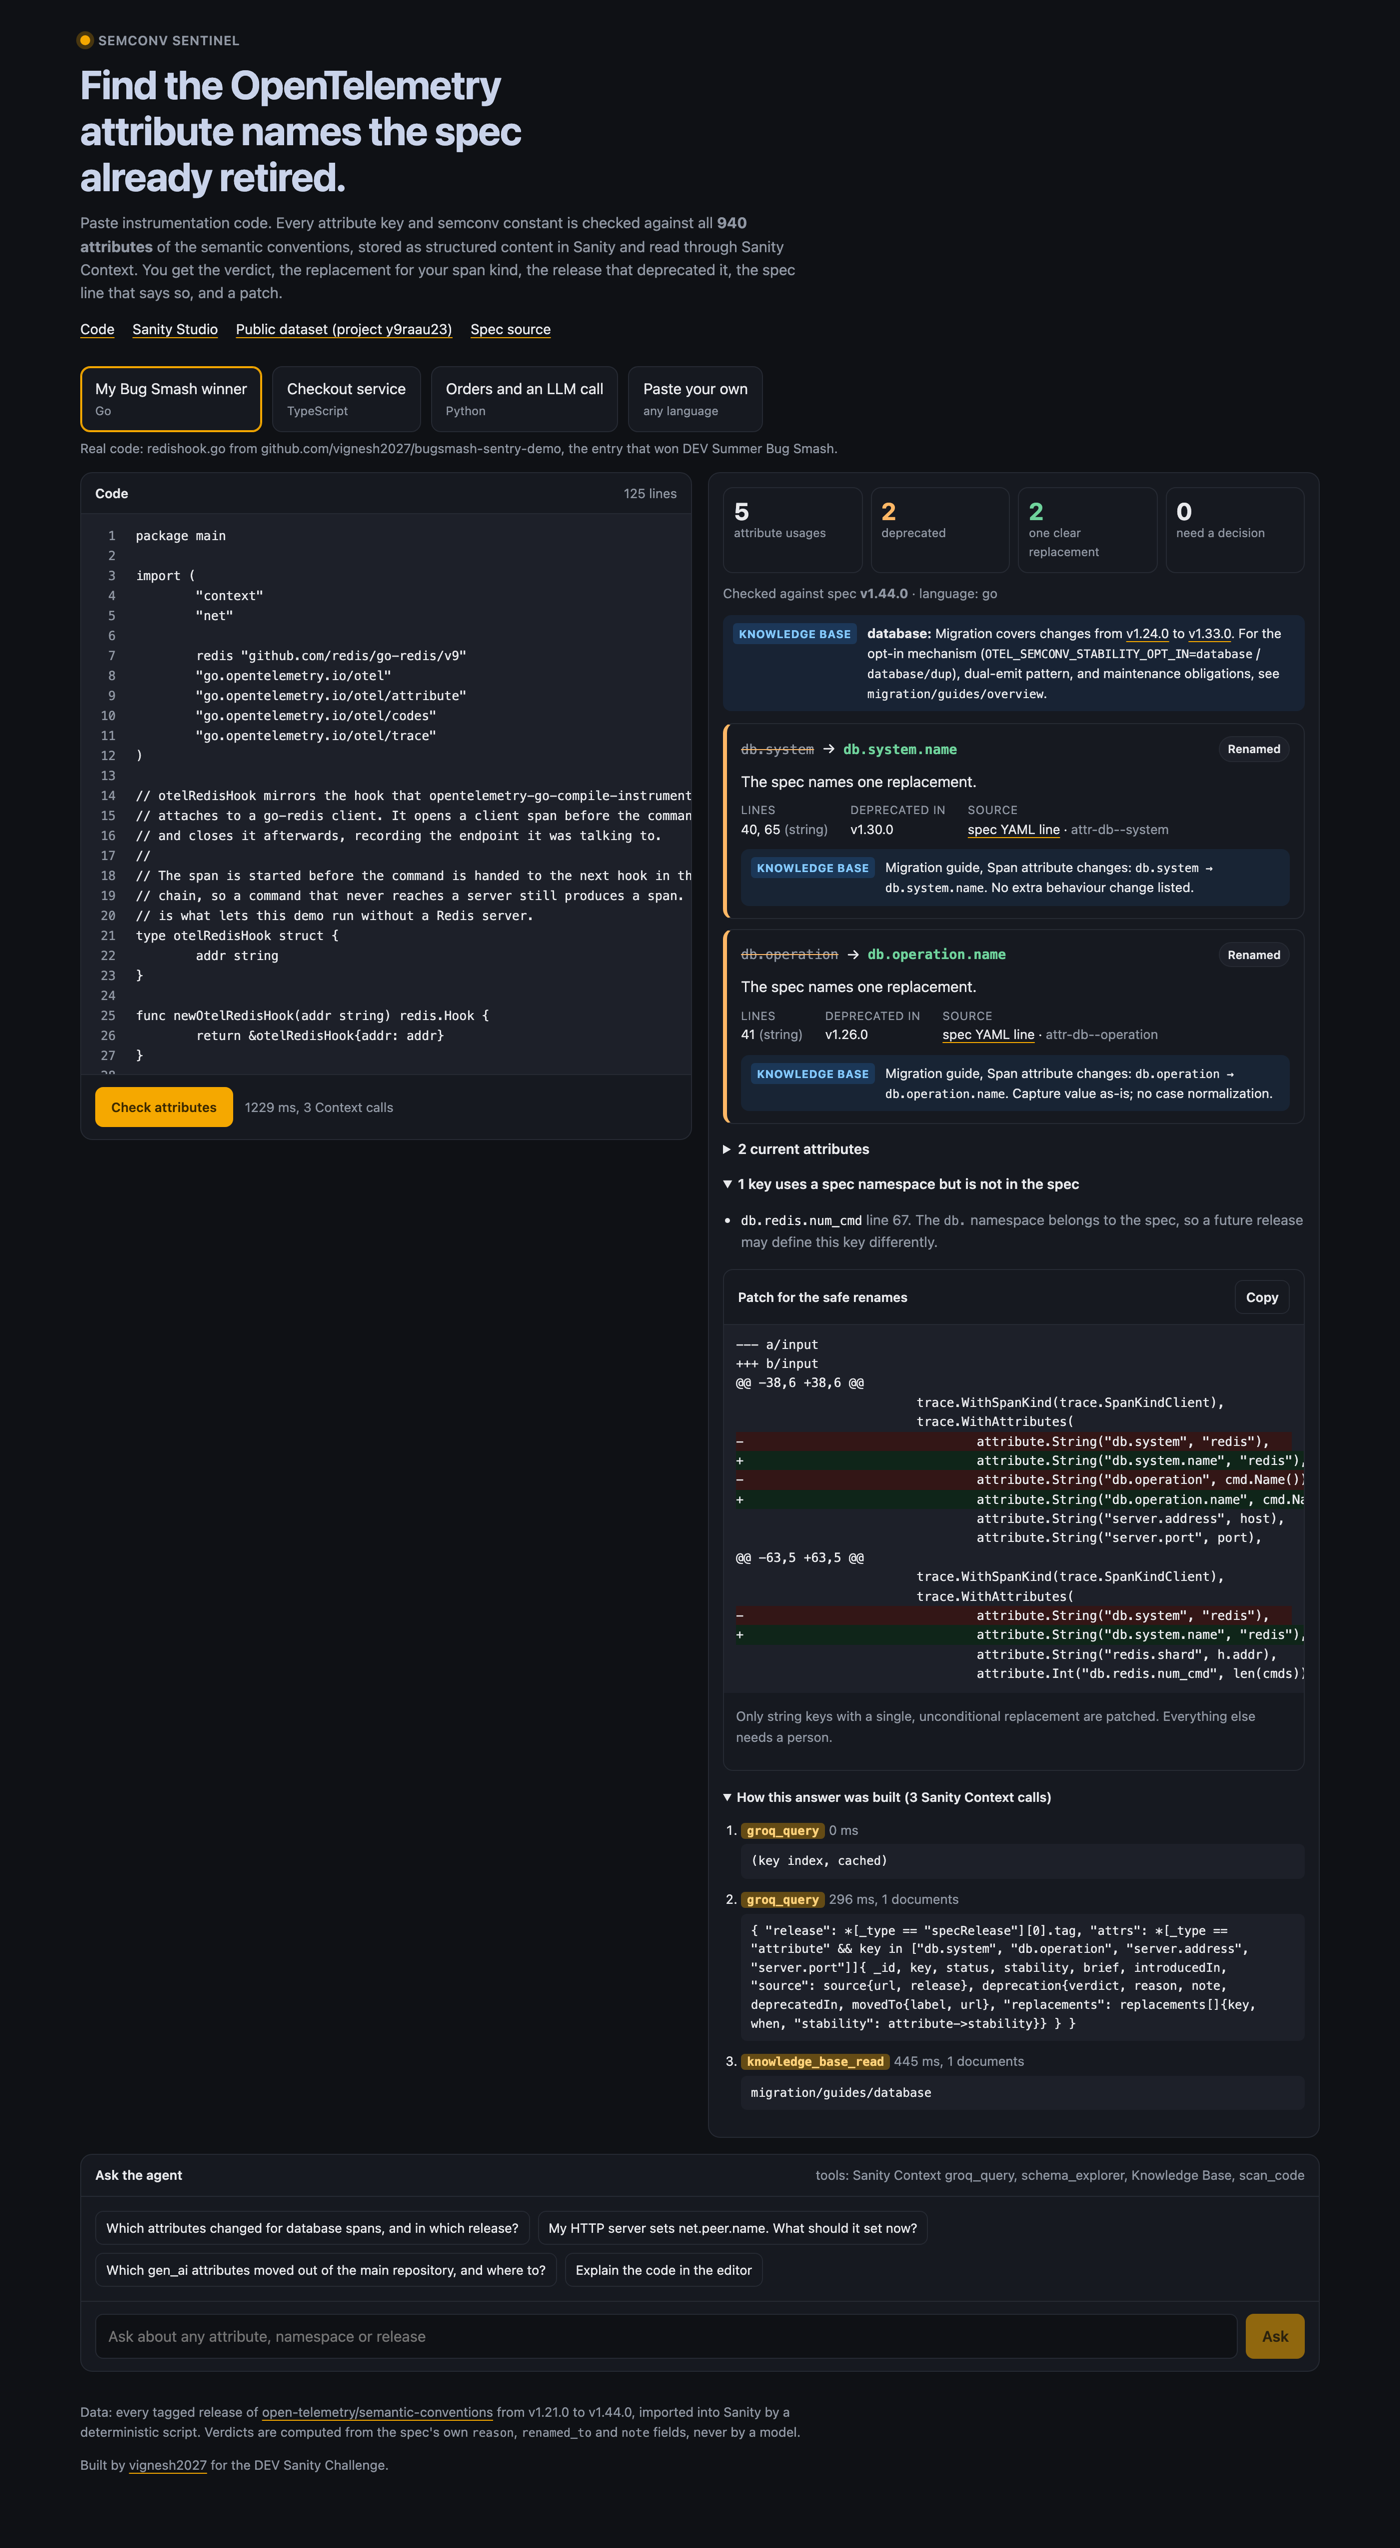
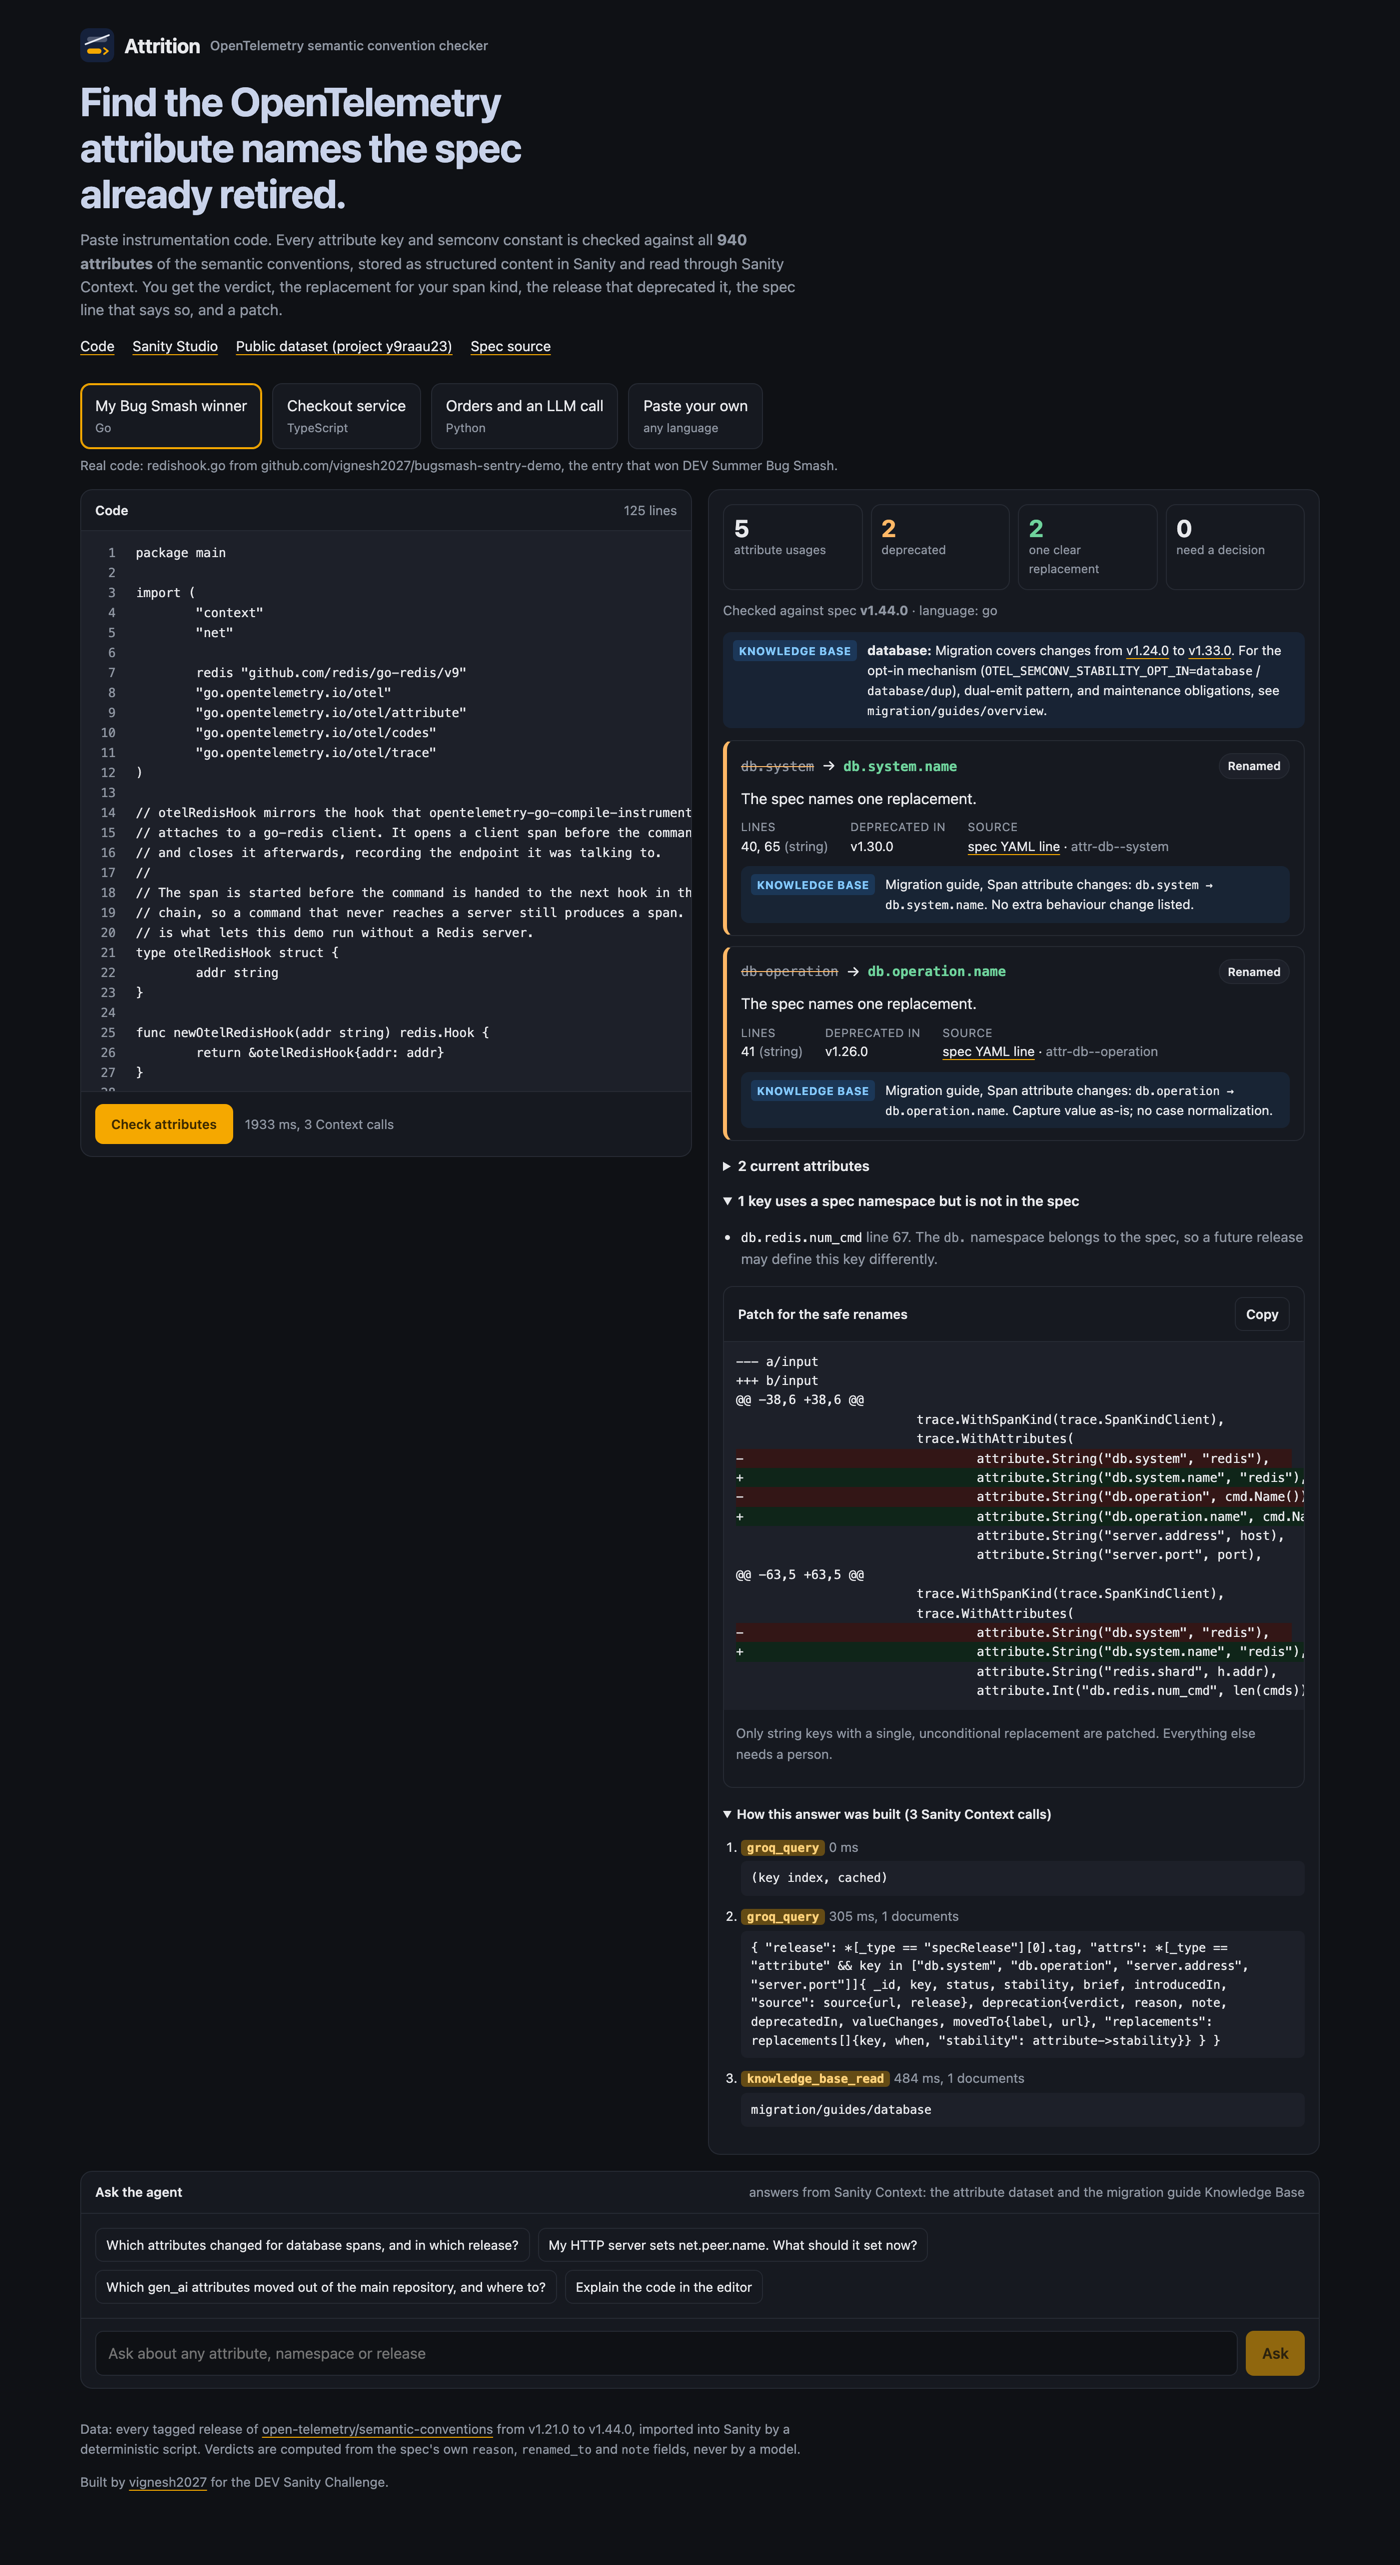
Refresh the README, project page and screenshots under the new name

diff --git a/docs/index.html b/docs/index.html
@@ -7,7 +7,9 @@
 <meta name="description" content="Find the OpenTelemetry attribute names the spec already retired. An agent on Sanity Context over all 940 semantic convention attributes.">
 <meta property="og:title" content="Attrition">
 <meta property="og:description" content="Find the OpenTelemetry attribute names the spec already retired.">
-<meta property="og:image" content="https://vignesh2027.github.io/attrition/img/node-light.png">
+<meta property="og:image" content="https://vignesh2027.github.io/attrition/og.png">
+<meta name="twitter:card" content="summary_large_image">
+<link rel="icon" href="mark.svg" type="image/svg+xml">
 <style>
 :root{--bg:#f7f7f4;--panel:#fff;--ink:#16181d;--muted:#5f6571;--line:#e3e3dd;--accent:#f5a800;--navy:#1f2a44;--ok:#1b7f4b;--warn:#b54708;--code:#f0f0ea}
 @media (prefers-color-scheme:dark){:root{--bg:#0f1115;--panel:#161920;--ink:#e8e9ec;--muted:#9097a3;--line:#262a33;--navy:#c9d3ea;--ok:#6fd39c;--warn:#ffb866;--code:#1d2029}}
@@ -16,7 +18,7 @@ body{margin:0;background:var(--bg);color:var(--ink);font:16px/1.6 Inter,ui-sans-
 a{color:inherit;text-decoration-color:var(--accent);text-underline-offset:3px}
 code{font:0.88em ui-monospace,"SF Mono",Menlo,monospace;background:var(--code);padding:1px 5px;border-radius:4px}
 .wrap{max-width:1080px;margin:0 auto;padding:40px 16px 80px}
-.brand{display:inline-flex;gap:8px;align-items:center;font-size:13px;font-weight:600;letter-spacing:.05em;text-transform:uppercase;color:var(--muted)}
+.brand{display:inline-flex;gap:12px;align-items:center;font-size:24px;font-weight:700;letter-spacing:-.01em;color:var(--ink);flex-wrap:wrap}
 .dot{width:10px;height:10px;border-radius:50%;background:var(--accent)}
 h1{font-size:clamp(30px,5vw,52px);line-height:1.08;letter-spacing:-.025em;margin:12px 0 16px;max-width:18ch;color:var(--navy)}
 .lede{font-size:18px;color:var(--muted);max-width:62ch}
@@ -43,7 +45,7 @@ footer{margin-top:60px;color:var(--muted);font-size:14px}
 </head>
 <body>
 <main class="wrap">
-  <div class="brand"><span class="dot"></span>Attrition</div>
+  <div class="brand"><img src="mark.svg" alt="" width="40" height="40" style="border-radius:9px">Attrition<span style="font-weight:500;text-transform:none;letter-spacing:0;color:var(--muted);font-size:14px;margin-left:6px">OpenTelemetry semantic convention checker</span></div>
   <h1>Find the OpenTelemetry attribute names the spec already retired.</h1>
   <p class="lede">Paste instrumentation code. Every attribute key and SDK constant is checked against all 940 attributes of the semantic conventions, stored as structured content in Sanity and read through Sanity Context. You get the verdict, the replacement for your span kind, the release that deprecated it, the spec line that says so, and a patch.</p>
   <div class="cta">

diff --git a/README.md b/README.md
@@ -24,7 +24,7 @@ A text search over the docs cannot answer these correctly:
 
 * **`net.peer.name` has two answers.** It is `server.address` on client spans and `client.address` on server spans. The agent reads the span kind from your code and picks one. If the code does not state a span kind, it asks.
 * **Some keys are split, merged or conditional.** `db.sql.table` becomes `db.collection.name` only if the value is not extracted from `db.query.text`. `code.function` is folded into a fully qualified `code.function.name`.
-* **Some are not renames at all.** `event.name` moves to the log record's EventName field. 23 attributes were removed with no replacement.
+* **Some are not renames at all.** `event.name` moves to the log record's EventName field. 21 attributes were removed with no replacement.
 * **The registry and the migration guide can disagree.** The registry says `db.name` was renamed to `db.namespace`. The database migration guide says it was removed and integrated into `db.namespace`. The app surfaces both and keeps that key out of the patch.
 
 Each of those facts is a field in a Sanity document, not a sentence in a page.
@@ -62,14 +62,16 @@ flowchart LR
 | Verdict | Count | Meaning |
 | --- | ---: | --- |
 | `RENAMED` | 97 | One new key, always |
-| `REPLACED` | 16 | One new key; the spec does not call it a rename |
-| `SPAN_KIND_DEPENDENT` | 2 | Different key on client and server spans |
-| `SPLIT` | 3 | Several keys, set together |
-| `CONDITIONAL` | 1 | The note states a condition |
+| `REPLACED` | 15 | One new key; the spec does not call it a rename |
+| `SPAN_KIND_DEPENDENT` | 3 | Different key per span kind, or none for one kind |
+| `SPLIT` | 4 | Several keys, set together |
+| `CONDITIONAL` | 2 | The note states a condition, or the key depends on usage |
 | `MERGED_INTO` | 4 | Fold the value into another key |
 | `USE_SIGNAL_FIELD` | 2 | Use a field of the span or log record |
 | `MOVED_OUT` | 58 | Maintained in another repository now |
-| `REMOVED` | 23 | Delete it |
+| `REMOVED` | 21 | Delete it |
+
+Four replacements also change the value format (a type or a string representation), for example `rpc.grpc.status_code`. Those carry `valueChanges: true` and are never auto-patched.
 
 No attribute is left as `NEEDS_REVIEW`. The counts come from `data/summary.json`.
 
@@ -106,10 +108,34 @@ A finding means the key is deprecated in the spec. Test fixtures that read old d
 | `scripts/` | Fetch the spec releases and build `data/semconv.ndjson` |
 | `studio/` | Sanity Studio, schema, structure, Agent Context document |
 | `kb/` | Knowledge Base sources and the script that rebuilds it |
-| `web/` | Next.js app: scan API, chat agent, UI |
-| `cli/` | Go CLI for local trees and CI |
+| `web/` | Next.js and TypeScript: scan API, chat agent, UI |
+| `cli/` | Go CLI for local trees and CI, also used by the GitHub Action |
+| `rust/` | Rust offline scanner for pre-commit hooks and air-gapped CI |
+| `python/` | Python terminal agent on the same Context MCP endpoints |
+| `action.yml` | GitHub Action |
 | `bench/` | Real repository scan and results |
 | `docs/` | GitHub Pages site and screenshots |
+
+## Four ways to run it
+
+| | Language | Needs network | Best for |
+| --- | --- | --- | --- |
+| [Web app](https://attrition-otel.vercel.app) | TypeScript | yes | Pasting a file, reading the evidence |
+| [`cli/`](cli) | Go | yes (live Sanity Context) | CI and whole repositories, `-fix` |
+| [`rust/`](rust) | Rust | only once, for the snapshot | Pre-commit hooks, air-gapped CI |
+| [`python/`](python) | Python | yes | Asking questions from a terminal, other agent stacks |
+
+### GitHub Action
+
+```yaml
+- uses: actions/checkout@v4
+- uses: vignesh2027/attrition@main
+  with:
+    path: services/
+    fail: "true"
+```
+
+It writes the report to the job summary and fails the job when code uses a retired name.
 
 ## Use the CLI
 
